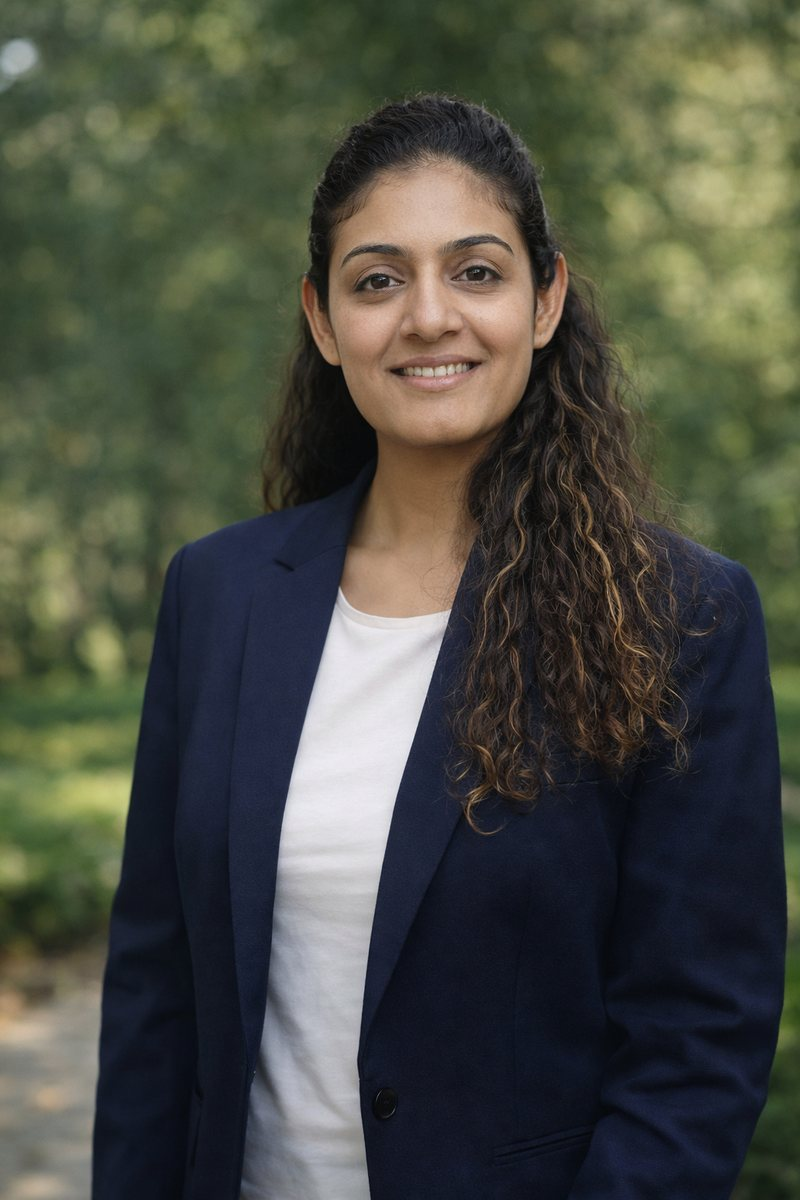
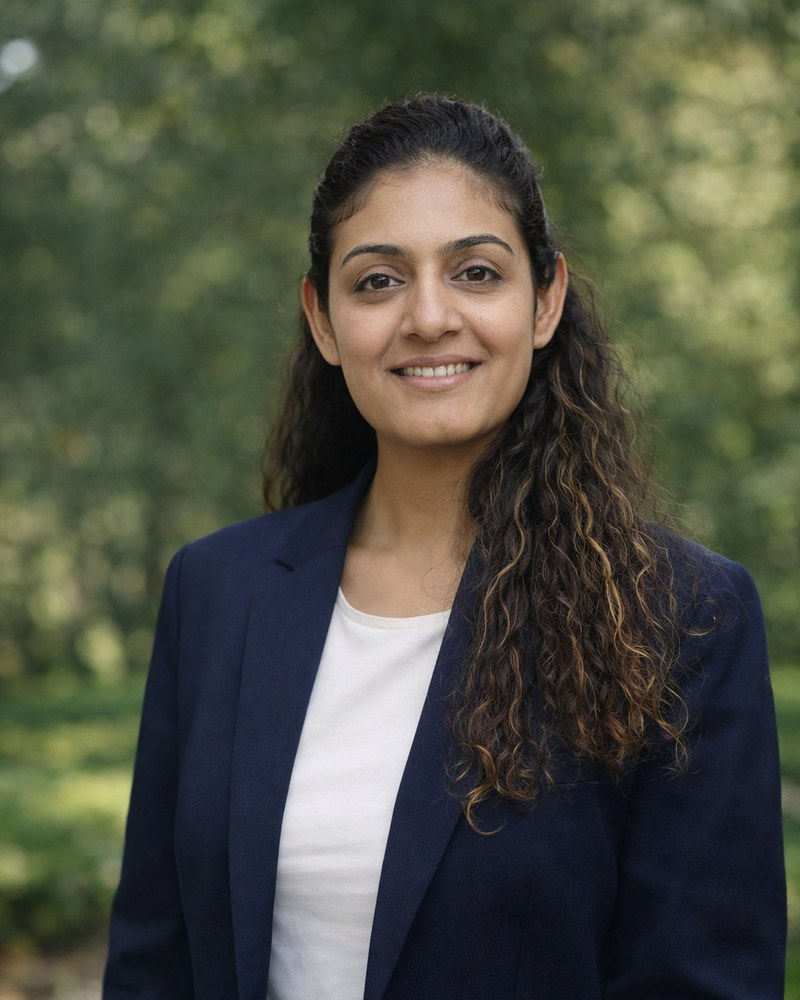
Add files via upload

diff --git a/about.html b/about.html
@@ -38,9 +38,12 @@
     </div>
     <div>
       <!-- EDIT: bio -->
-      <p class="bio">I'm a <strong>Staff UX/UI designer</strong> who works on enterprise products where the complexity is real and the stakes are high — infrastructure monitoring, cloud monetization, fleet compliance. These aren't consumer apps you can charm with polish; they're dense systems where a confused user means a missed outage, a billing error, or a compliance risk.</p>
-      <p class="bio">My work is making that complexity legible. That means information architecture that matches how people actually think, interaction patterns that hold up under pressure, and — increasingly — designing how AI fits into expert workflows without eroding trust. Just as often it means the less visible work: framing the ambiguous problem, arguing for the right sequence of work, and keeping a team honest about outcomes over output.</p>
-      <p class="bio">I came to design through <strong>QA engineering</strong> — which means I think in system behavior and edge cases, and I collaborate with engineers on what's actually feasible rather than lobbing over ideal-world mockups. A decade across three enterprise domains has taught me to get fluent in an unfamiliar system fast and find the leverage point that makes the rest tractable.</p>
+      <p class="bio"><strong>Hi, I'm Garima.</strong> A product designer who turns ambiguity into clarity by designing complex enterprise products that feel <strong>intuitive</strong>, <strong>human</strong>, and <strong>trustworthy</strong>.</p>
+      <p class="bio">Based in the San Francisco Bay Area, I was most recently a <strong>Staff Product Designer</strong> for a cloud-based monitoring platform at Fortinet, working closely with product, engineering, and cross-functional partners from discovery through launch.</p>
+      <p class="bio">I enjoy working in environments where complexity is high and clarity is critical — <strong>designing experiences, not just screens</strong>. I value clarity, consistency, and thoughtful defaults, and I believe good design earns trust over time.</p>
+      <p class="bio">I've worked within ambiguity and experienced the challenges of information silos, which has shaped a strong belief: <strong>meaningful design is never created in isolation</strong>. It emerges when teams work closely with users to deeply understand their challenges and solve real problems together.</p>
+      <p class="bio">I began my career as a <strong>QA engineer</strong>, which fundamentally shaped how I approach design. It gave me a deep appreciation for edge cases, technical constraints, and how products behave in real-world conditions. That foundation helps me stay grounded in execution while being an empathetic partner to product and engineering teams.</p>
+      <p class="bio">When I'm not designing, you'll likely find me with my family, building LEGO sets, exploring the outdoors, or cooking Indian food.</p>
 
       <div class="tags">
         <span class="tag">UX Strategy</span>
